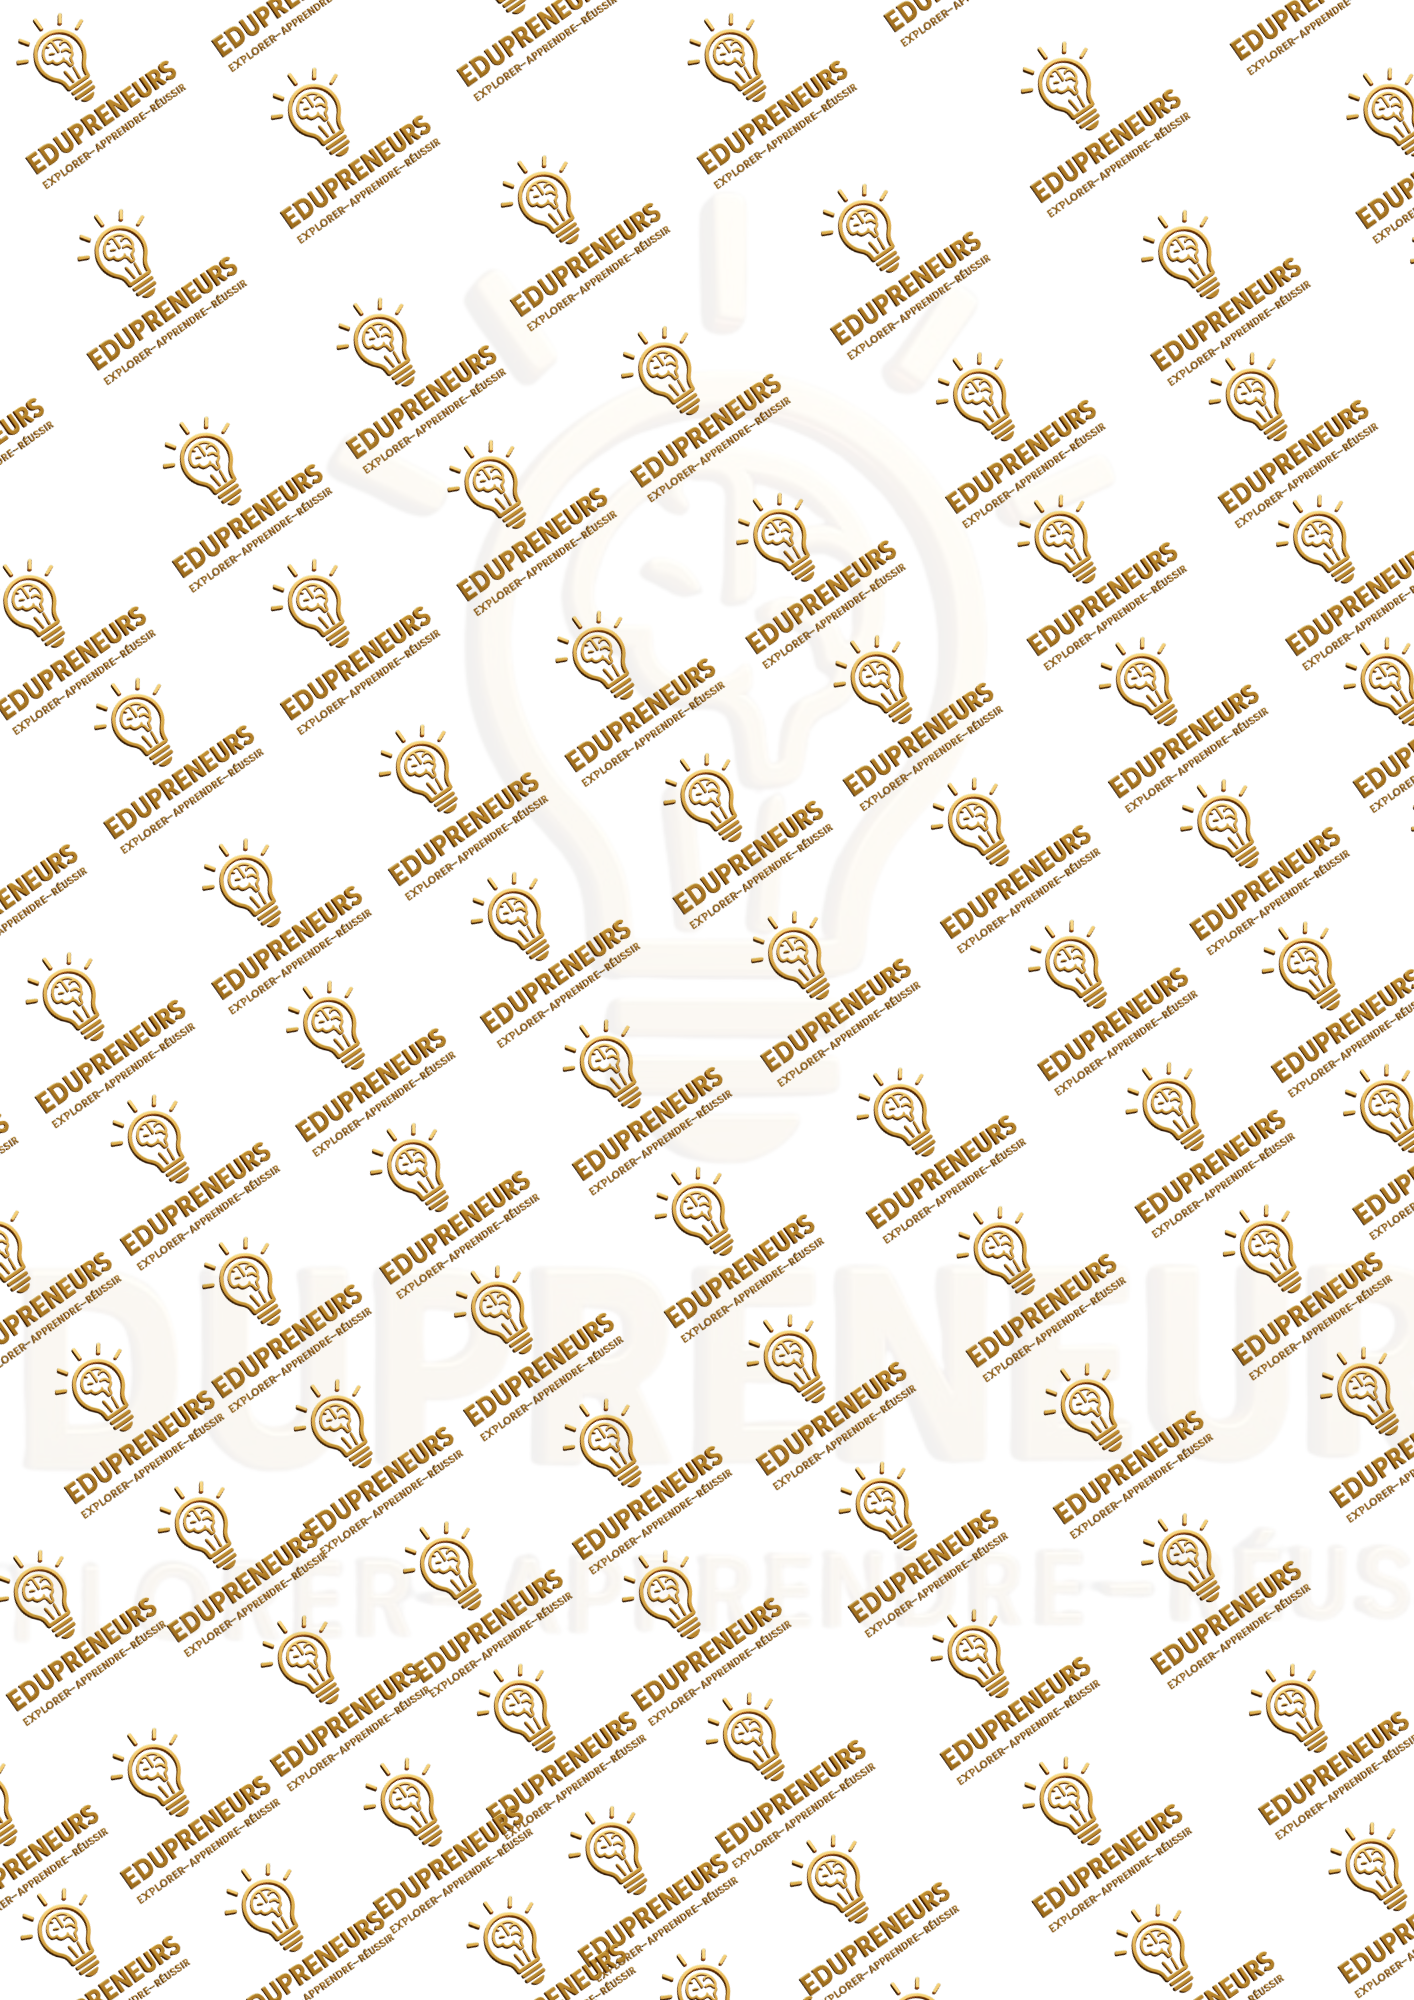
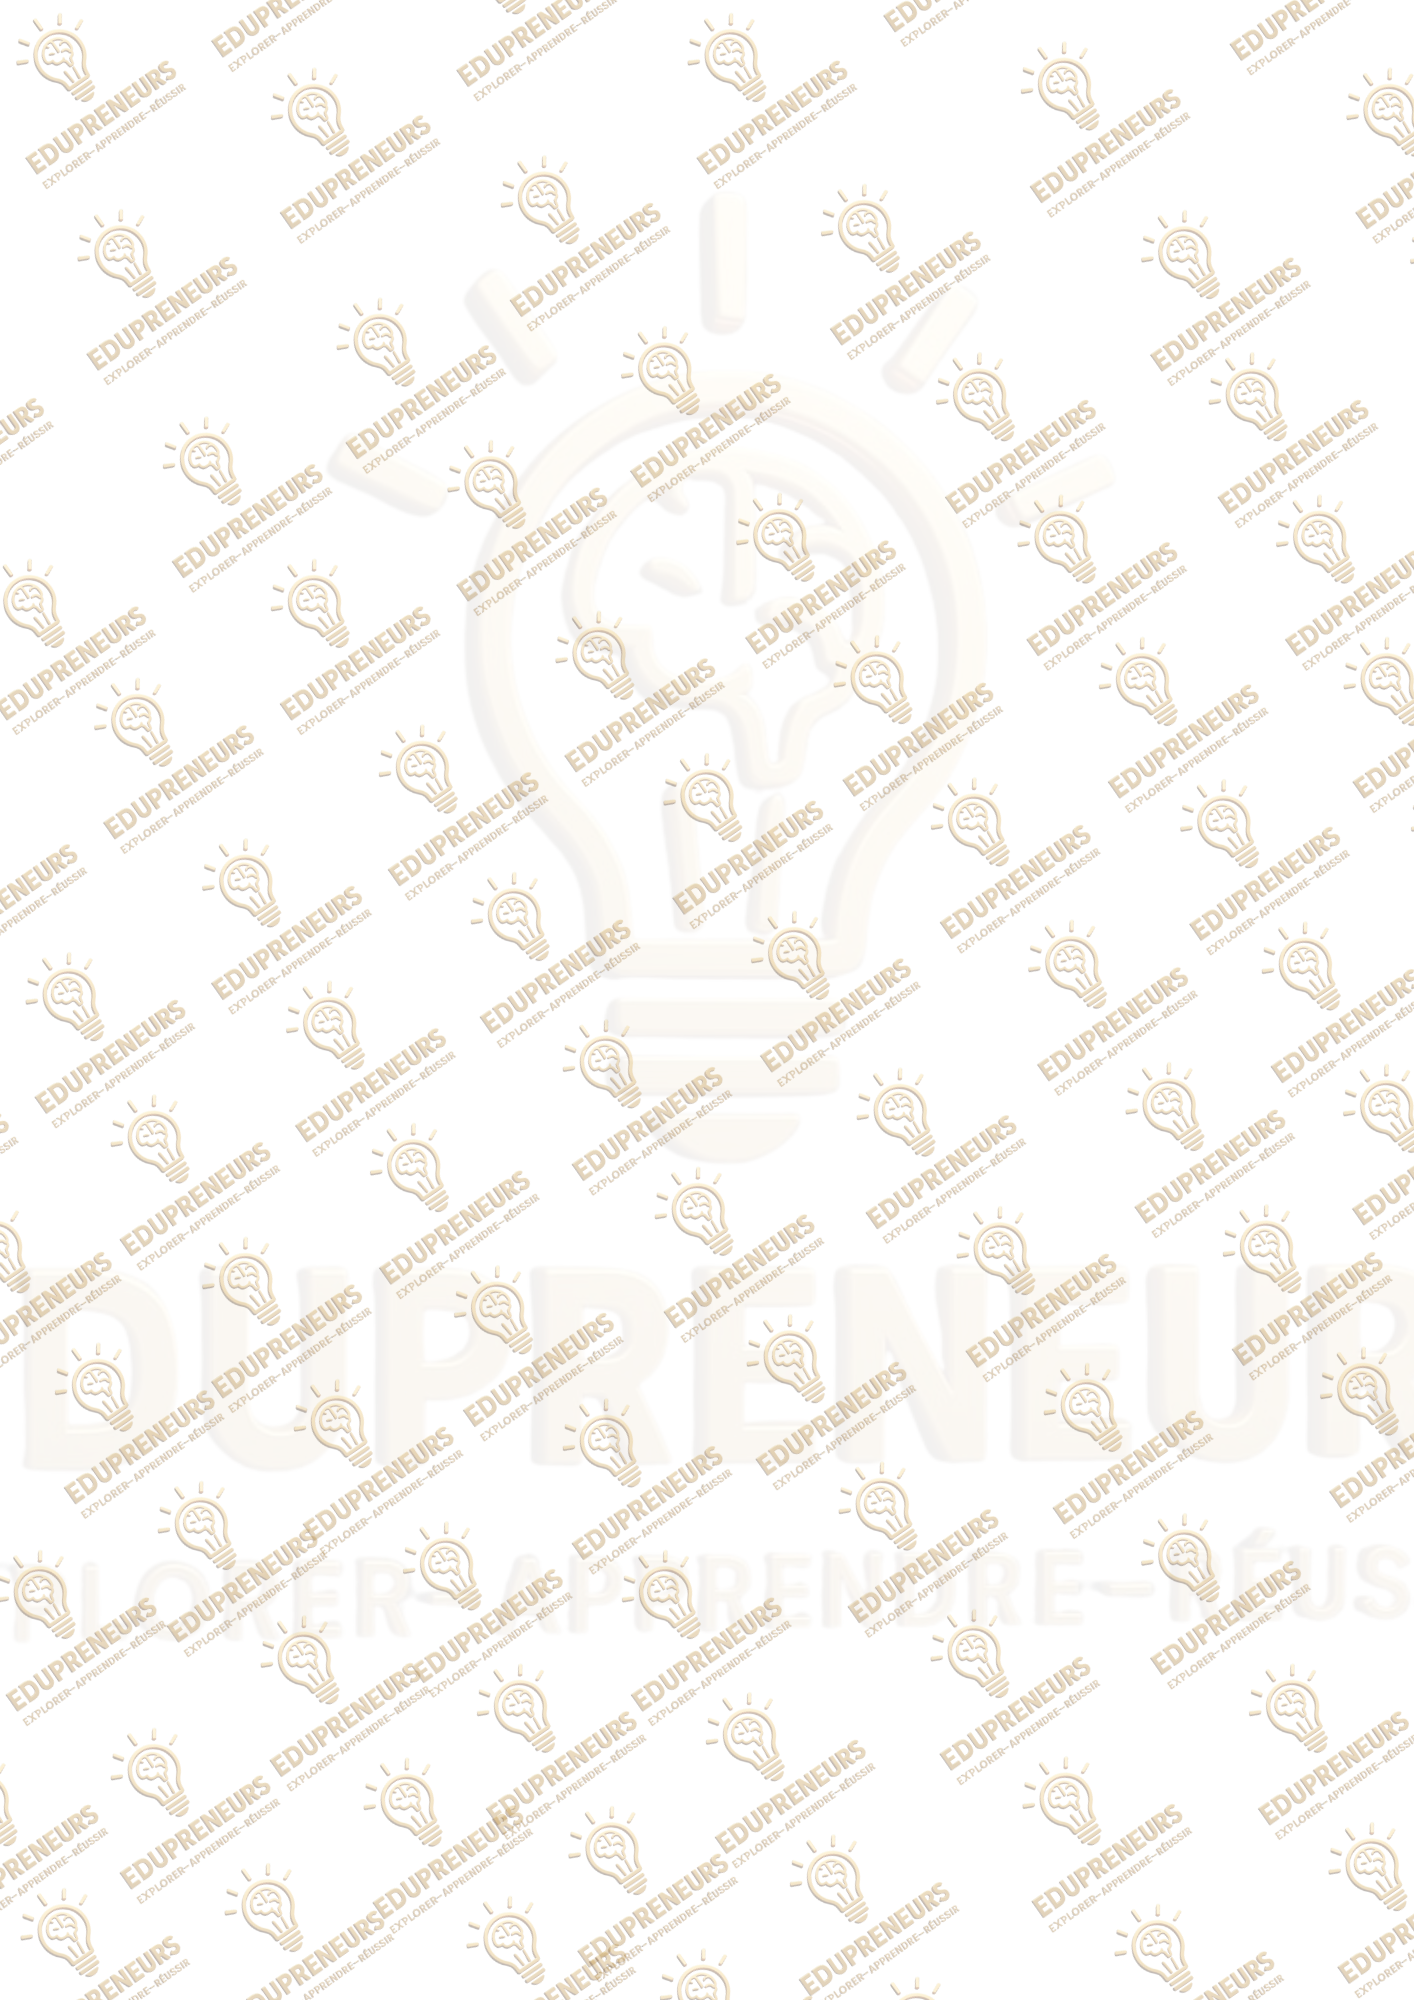
Changes

diff --git a/src/pages/Community.tsx b/src/pages/Community.tsx
@@ -2193,15 +2193,14 @@ const Community = () => {
                 paddingBottom: 'calc(var(--kb) + var(--safe-bottom))'
               }}
             >
-              {/* Background with 50% opacity overlay */}
+              {/* Background pattern */}
               <div 
                 className="absolute inset-0 pointer-events-none"
                 style={{
                   backgroundImage: `url(${chatBackground})`,
                   backgroundSize: '300px',
                   backgroundRepeat: 'repeat',
-                  backgroundPosition: 'center',
-                  opacity: 0.5
+                  backgroundPosition: 'center'
                 }}
               />
               {/* Eric Help Banner for Group Chats */}
